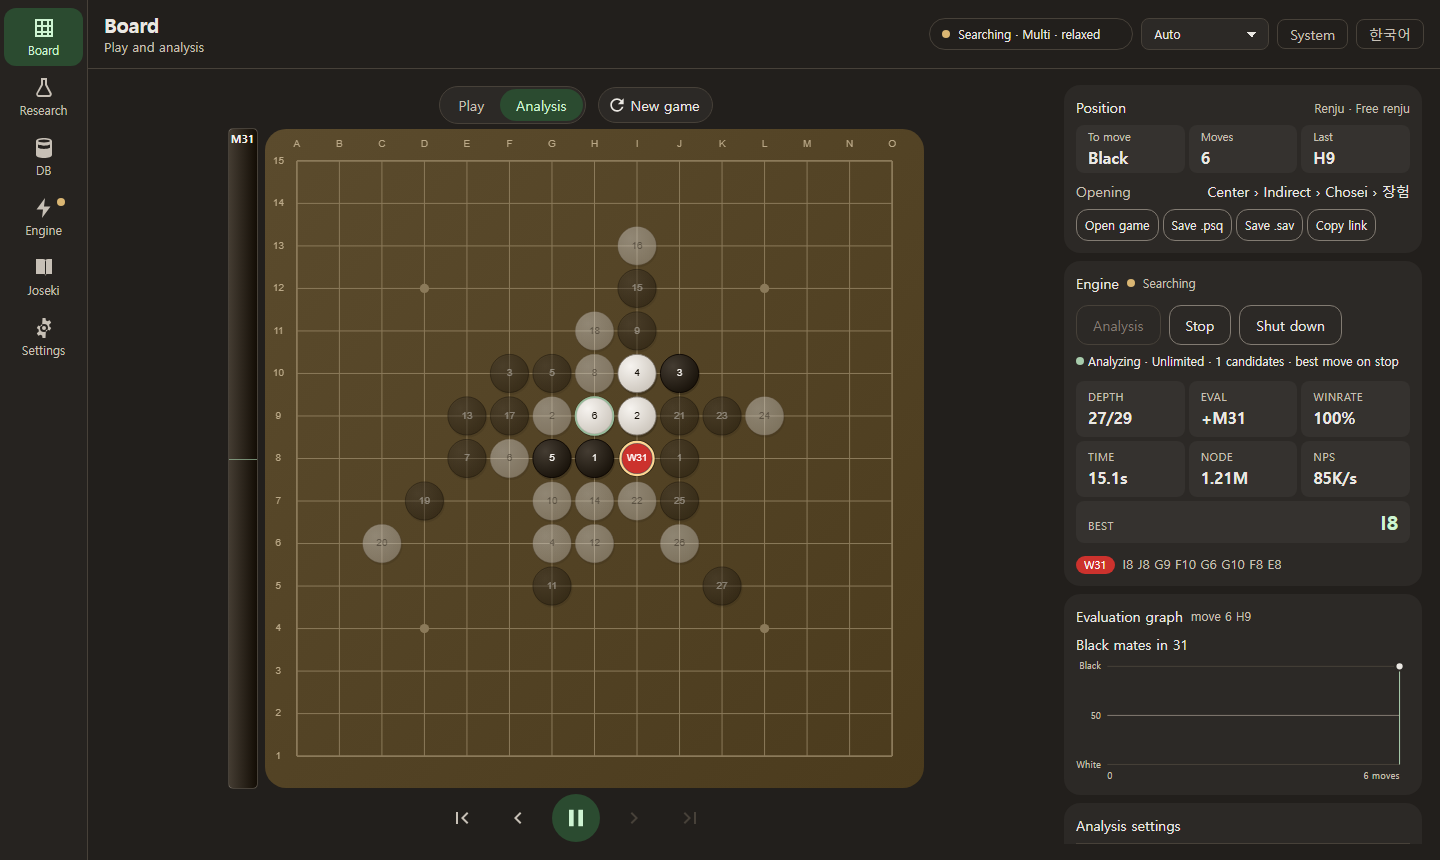
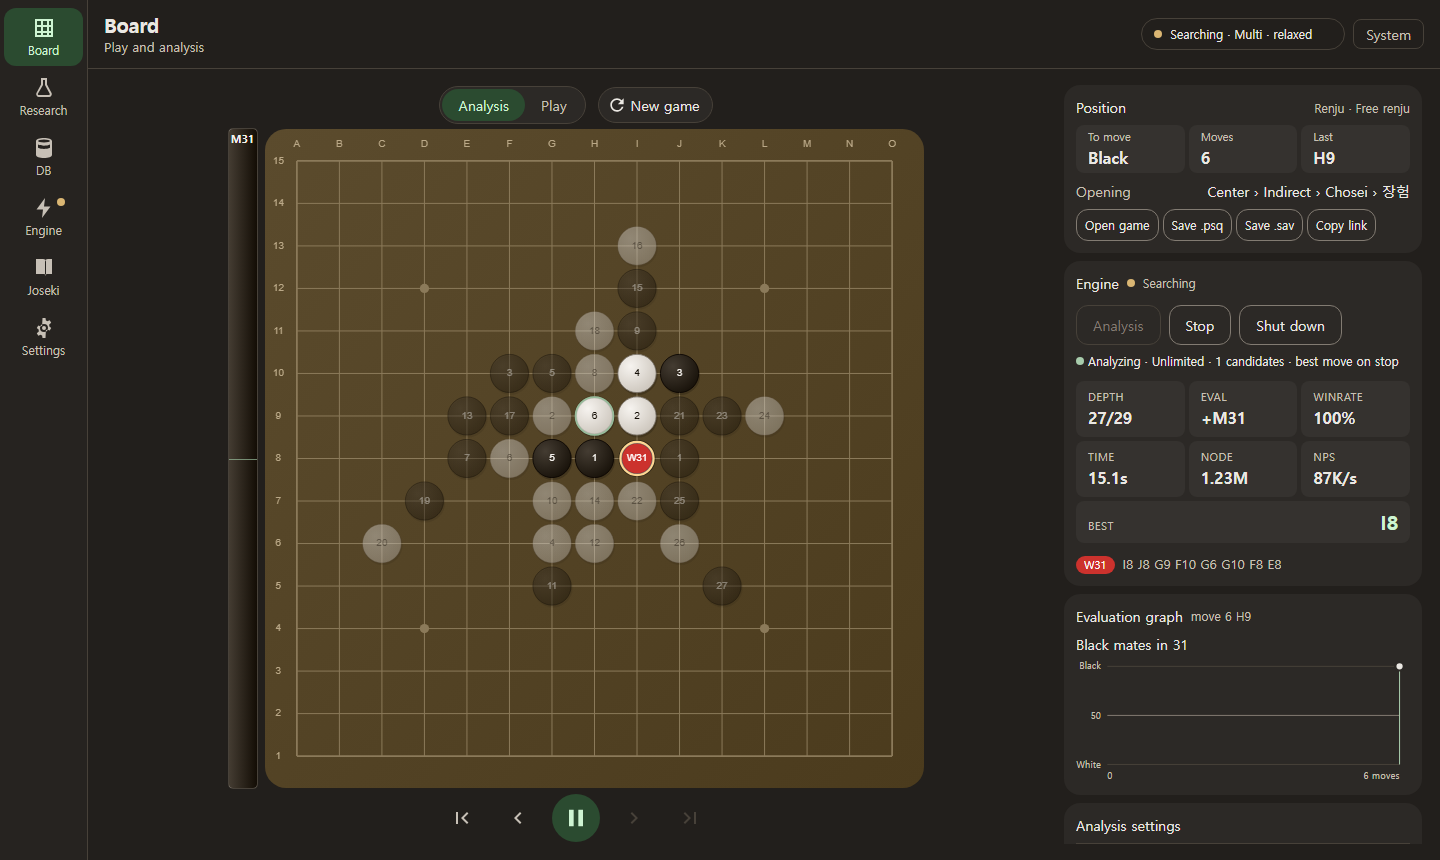
docs: 새 UI 반영 · 스크린샷 교체
기능 안내의 언어 · 엔진 선택 위치(설정), 보드 탭 순서와 기본(분석), 엔진
표시 점이 깜빡이지 않는다는 것을 고치고, README 두 판의 언어 전환 문구와
스크린샷(분석 탭 · 정리된 상단 바)을 바꿨다.

Changed region(s): [[0.6562, 0.0302, 1.0, 0.0605], [0.3125, 0.0907, 0.4062, 0.1512]]

diff --git a/README.md b/README.md
@@ -74,7 +74,7 @@ inside one browser tab.
   import and export desktop `settings.txt` byte for byte.
 
 ### 🌏 Korean / English, responsive and accessible
-- Full **Korean and English UI** (~900 strings) with auto-detection and a one-click toggle.
+- Full **Korean and English UI** (~900 strings) with auto-detection and a switch in Settings.
   A test scans the source so no string ships untranslated.
 - **Responsive from 360 px phones to desktops**, in portrait and landscape, light and dark themes.
 - **Accessibility built in**: keyboard play on every board (arrows + Enter), screen-reader
